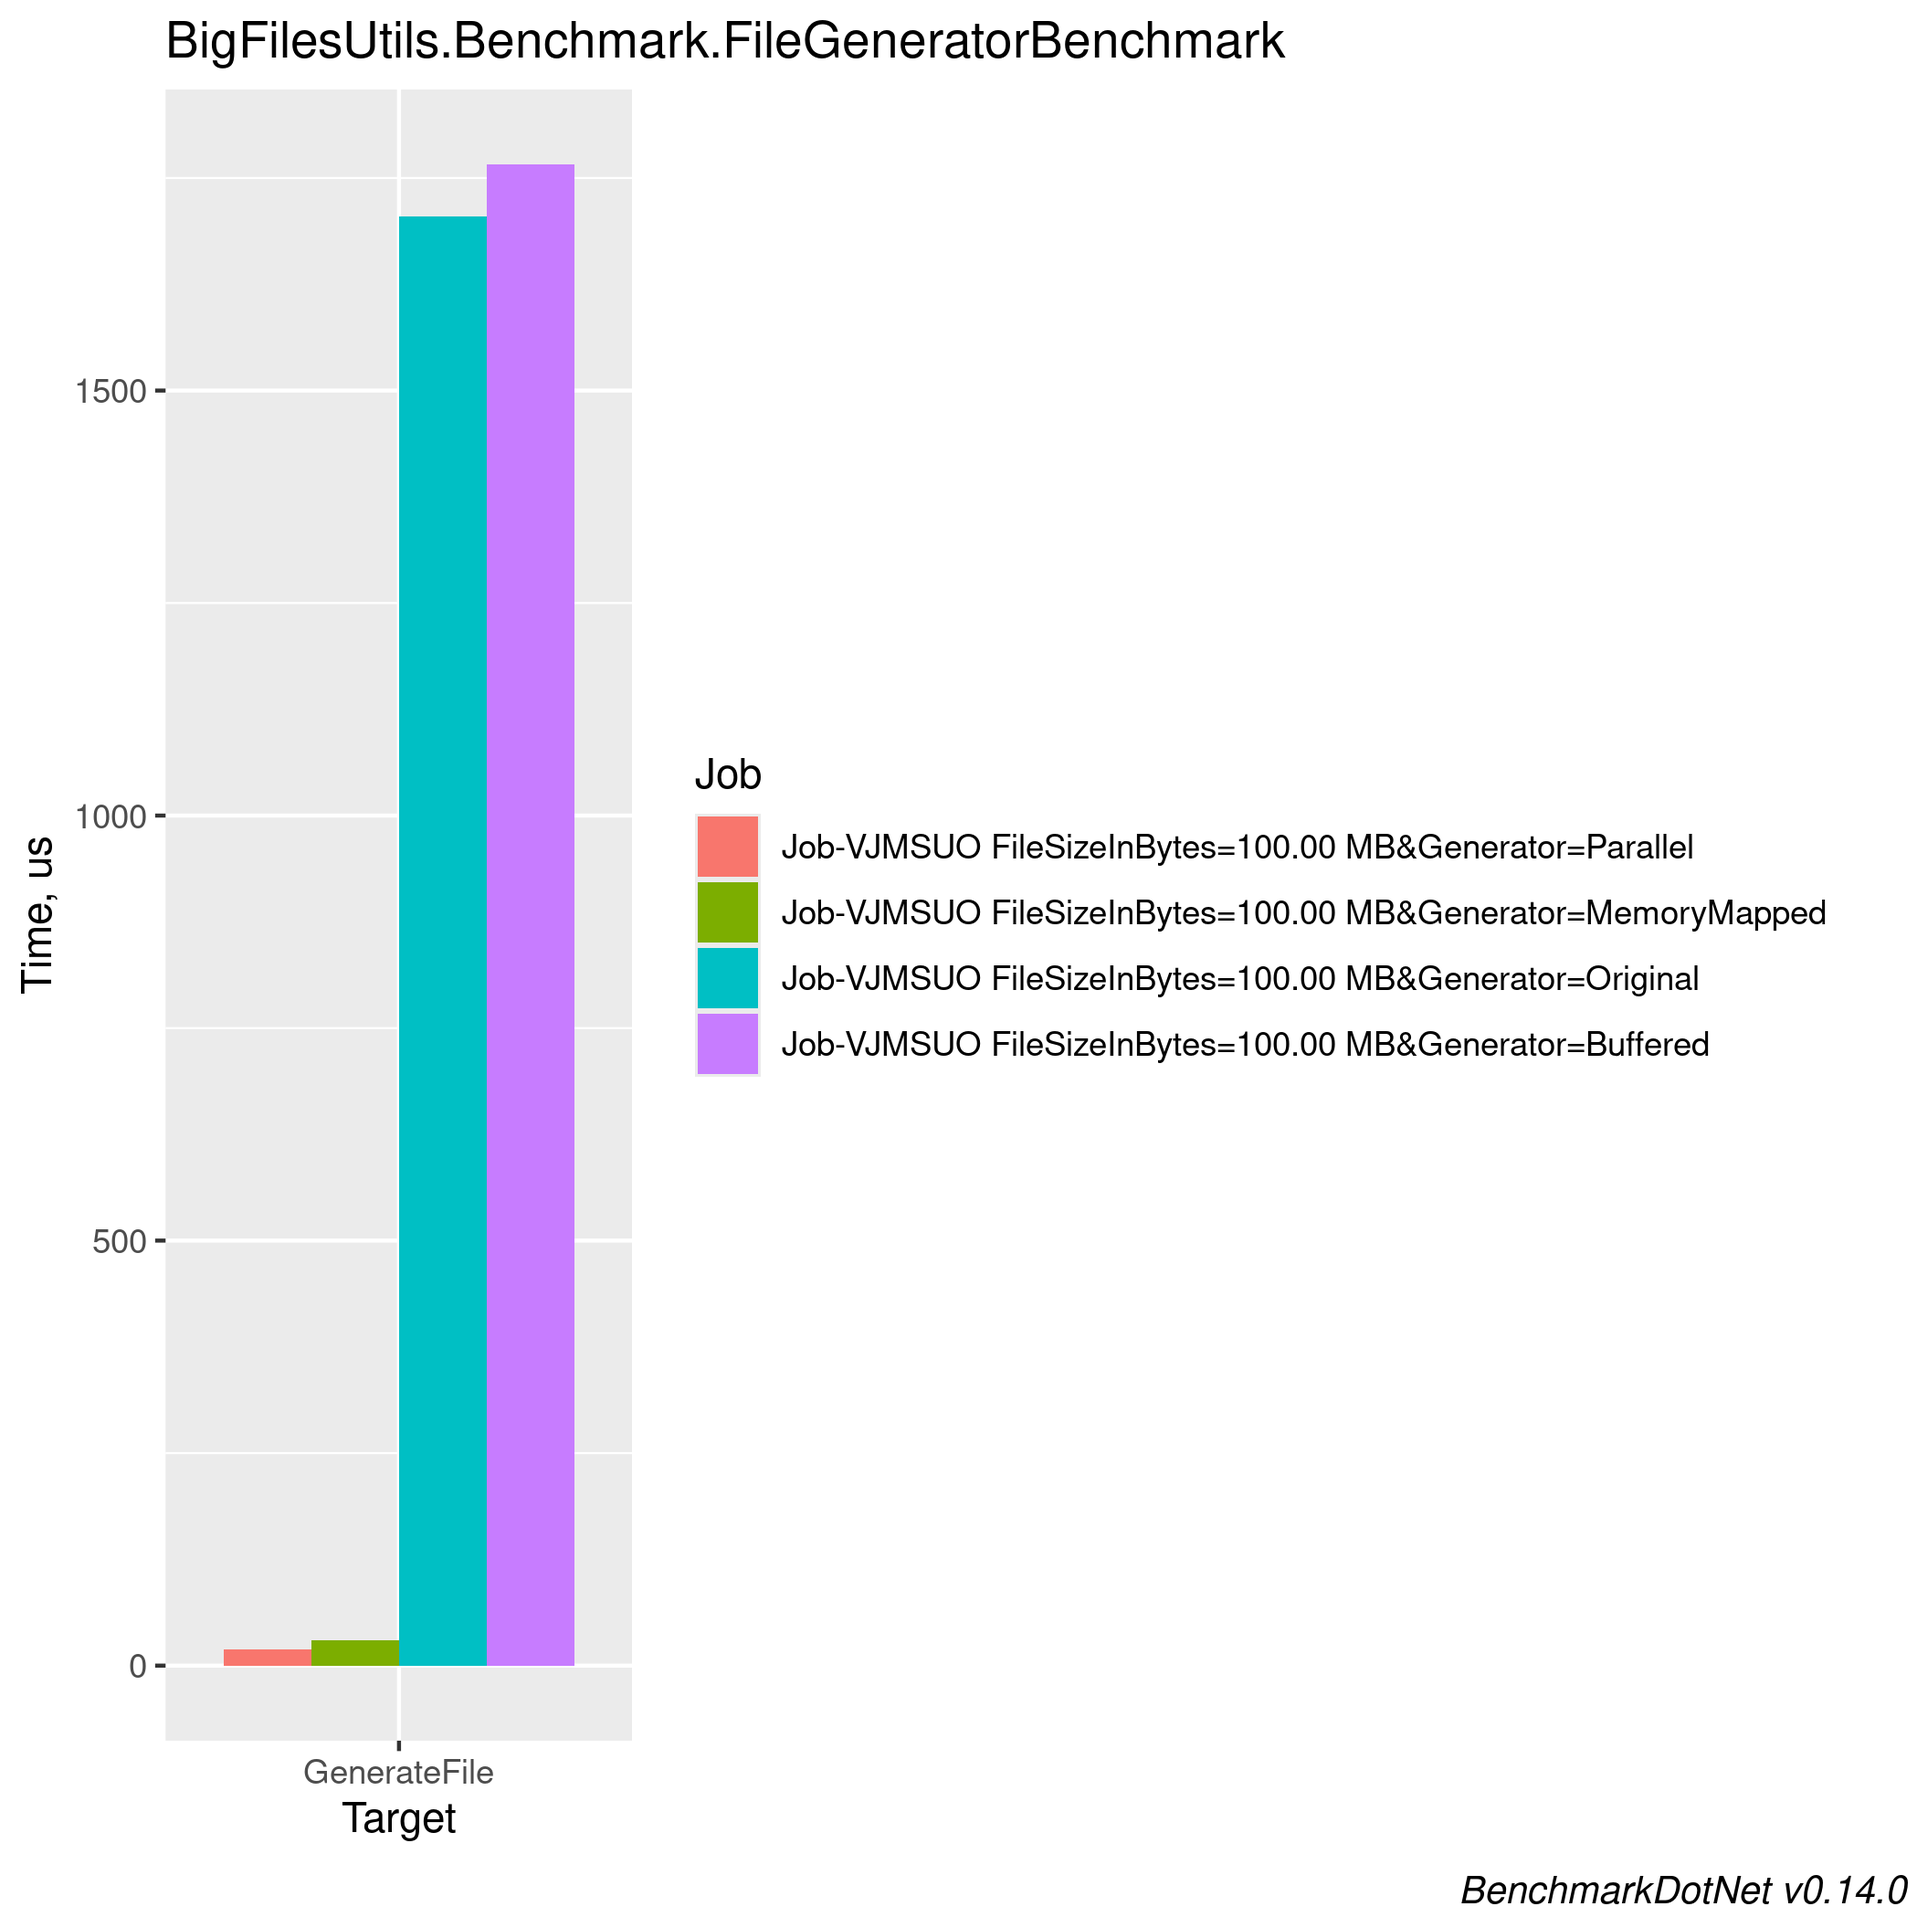
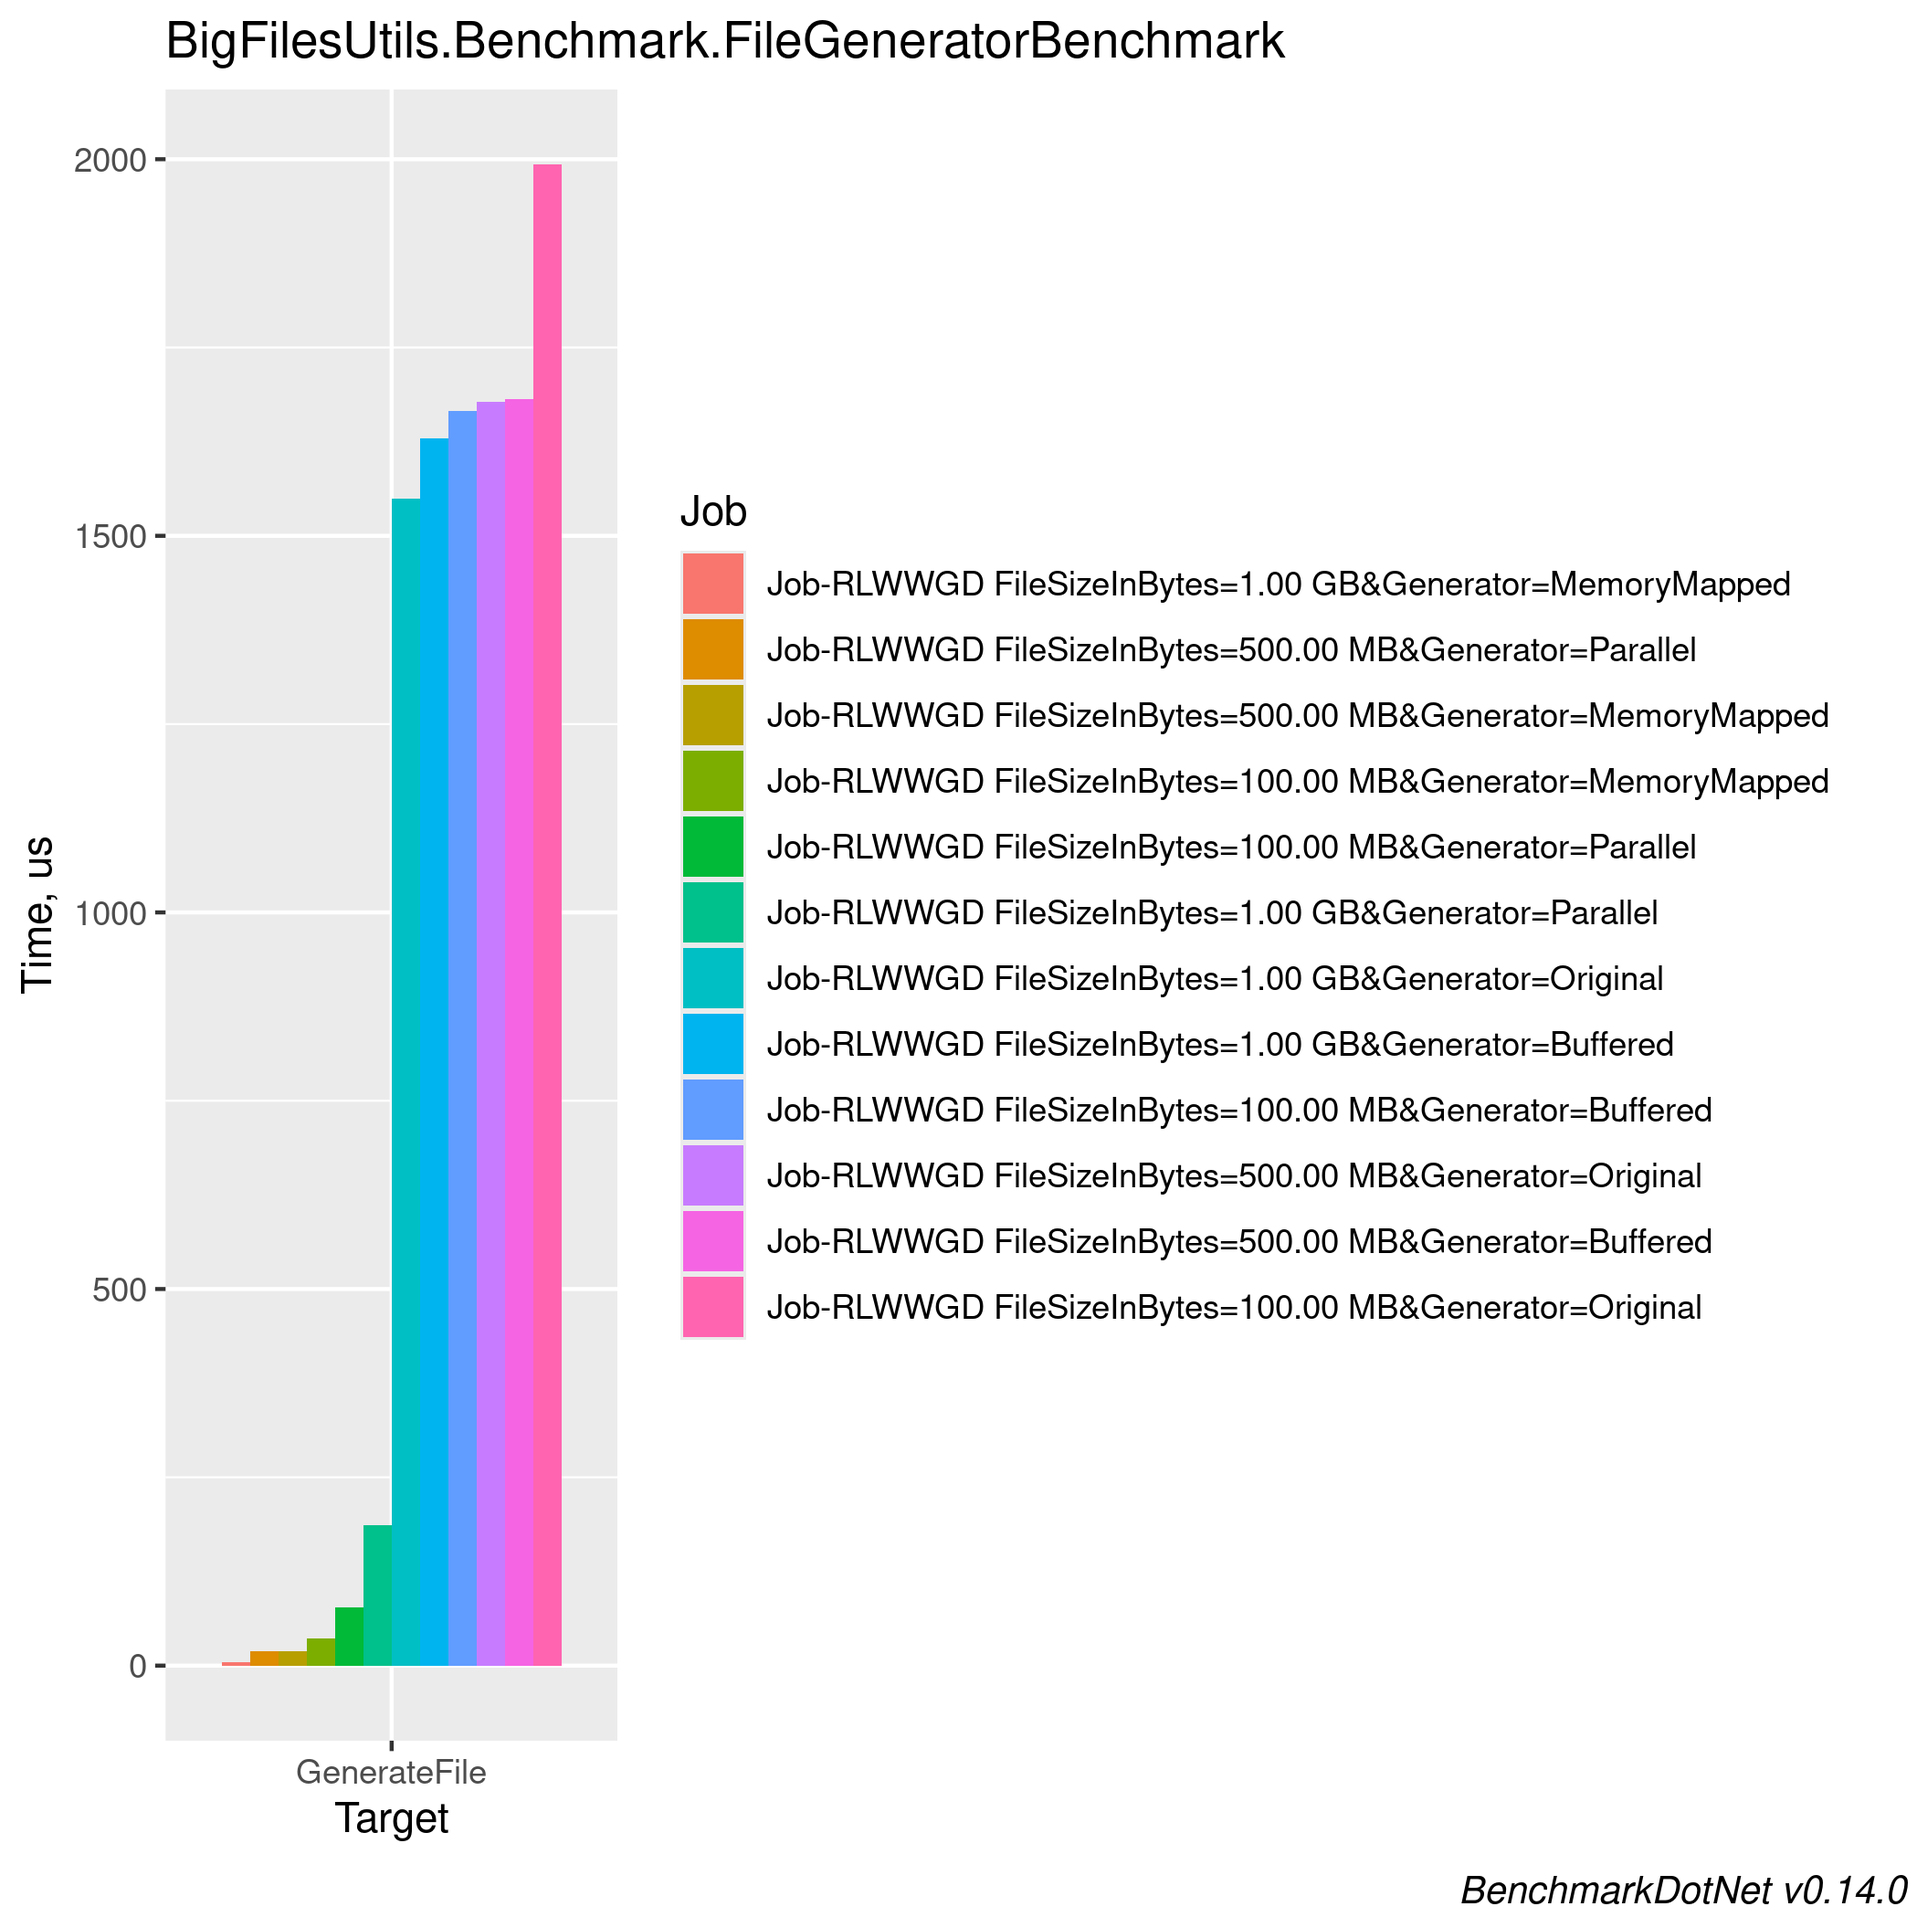
Update benchmark results in README

diff --git a/README.md b/README.md
@@ -7,7 +7,7 @@
 
 ## Benchmark Results
 
-*Last updated on Sun Sep 29 05:34:30 UTC 2024 UTC*
+*Last updated on Sun Sep 29 05:48:04 UTC 2024 UTC*
 
 ```
 
@@ -15,7 +15,7 @@ BenchmarkDotNet v0.14.0, Ubuntu 22.04.5 LTS (Jammy Jellyfish)
 AMD EPYC 7763, 1 CPU, 2 logical cores and 1 physical core
 .NET SDK 8.0.402
   [Host]     : .NET 8.0.8 (8.0.824.36612), X64 RyuJIT AVX2
-  Job-VJMSUO : .NET 8.0.8 (8.0.824.36612), X64 RyuJIT AVX2
+  Job-RLWWGD : .NET 8.0.8 (8.0.824.36612), X64 RyuJIT AVX2
 
 Server=True  InvocationCount=3  IterationCount=3  
 LaunchCount=5  UnrollFactor=1  WarmupCount=2  
@@ -23,10 +23,18 @@ LaunchCount=5  UnrollFactor=1  WarmupCount=2
 ```
 | Method       | FileSizeInBytes | Generator    | FileSize | Mean      | Error     | StdDev    | StdErr    | Median    | Min       | Max       | Rank | Allocated |
 |------------- |---------------- |------------- |--------- |----------:|----------:|----------:|----------:|----------:|----------:|----------:|-----:|----------:|
-| GenerateFile | 100.00 MB       | Parallel     | ?        | 0.0188 ms | 0.0065 ms | 0.0061 ms | 0.0016 ms | 0.0176 ms | 0.0095 ms | 0.0294 ms |    1 |   0.49 MB |
-| GenerateFile | 100.00 MB       | MemoryMapped | ?        | 0.0299 ms | 0.0876 ms | 0.0820 ms | 0.0212 ms | 0.0046 ms | 0.0022 ms | 0.3182 ms |    2 |   0.24 MB |
-| GenerateFile | 100.00 MB       | Original     | ?        | 1.7044 ms | 0.6072 ms | 0.5680 ms | 0.1467 ms | 1.7890 ms | 1.0986 ms | 2.5924 ms |    3 |   1.32 MB |
-| GenerateFile | 100.00 MB       | Buffered     | ?        | 1.7663 ms | 0.6426 ms | 0.6010 ms | 0.1552 ms | 1.7535 ms | 0.9025 ms | 3.0175 ms |    3 |   1.69 MB |
+| GenerateFile | 1.00 GB         | MemoryMapped | ?        | 0.0044 ms | 0.0043 ms | 0.0040 ms | 0.0010 ms | 0.0037 ms | 0.0019 ms | 0.0187 ms |    1 |   0.25 MB |
+| GenerateFile | 500.00 MB       | Parallel     | ?        | 0.0192 ms | 0.0087 ms | 0.0081 ms | 0.0021 ms | 0.0164 ms | 0.0104 ms | 0.0379 ms |    2 |   0.08 MB |
+| GenerateFile | 500.00 MB       | MemoryMapped | ?        | 0.0192 ms | 0.0365 ms | 0.0342 ms | 0.0088 ms | 0.0036 ms | 0.0019 ms | 0.0870 ms |    3 |   0.66 MB |
+| GenerateFile | 100.00 MB       | MemoryMapped | ?        | 0.0364 ms | 0.0954 ms | 0.0892 ms | 0.0230 ms | 0.0036 ms | 0.0019 ms | 0.3423 ms |    3 |   0.22 MB |
+| GenerateFile | 100.00 MB       | Parallel     | ?        | 0.0774 ms | 0.1878 ms | 0.1756 ms | 0.0453 ms | 0.0245 ms | 0.0149 ms | 0.6985 ms |    4 |   5.48 MB |
+| GenerateFile | 1.00 GB         | Parallel     | ?        | 0.1865 ms | 0.6822 ms | 0.6381 ms | 0.1648 ms | 0.0199 ms | 0.0120 ms | 2.4929 ms |    4 |   0.06 MB |
+| GenerateFile | 1.00 GB         | Original     | ?        | 1.5493 ms | 0.5820 ms | 0.5444 ms | 0.1406 ms | 1.1957 ms | 1.1058 ms | 2.5858 ms |    5 |   2.07 MB |
+| GenerateFile | 1.00 GB         | Buffered     | ?        | 1.6289 ms | 0.6854 ms | 0.6411 ms | 0.1655 ms | 1.3856 ms | 0.9534 ms | 2.8015 ms |    5 |   2.34 MB |
+| GenerateFile | 100.00 MB       | Buffered     | ?        | 1.6657 ms | 0.7995 ms | 0.7479 ms | 0.1931 ms | 1.6464 ms | 0.9577 ms | 3.4793 ms |    5 |   1.89 MB |
+| GenerateFile | 500.00 MB       | Original     | ?        | 1.6774 ms | 0.5399 ms | 0.5050 ms | 0.1304 ms | 1.8489 ms | 1.0723 ms | 2.6582 ms |    5 |   1.18 MB |
+| GenerateFile | 500.00 MB       | Buffered     | ?        | 1.6810 ms | 0.5598 ms | 0.5237 ms | 0.1352 ms | 1.7292 ms | 1.0285 ms | 2.9686 ms |    5 |   3.13 MB |
+| GenerateFile | 100.00 MB       | Original     | ?        | 1.9934 ms | 0.7855 ms | 0.7348 ms | 0.1897 ms | 1.9193 ms | 1.0894 ms | 3.3547 ms |    5 |   1.23 MB |
 
 ### Performance Barplot
 ![Benchmark Barplot](docs/BigFilesUtils.Benchmark.FileGeneratorBenchmark-barplot.png)

diff --git a/docs/BigFilesUtils.Benchmark.FileGeneratorBenchmark-report-github.md b/docs/BigFilesUtils.Benchmark.FileGeneratorBenchmark-report-github.md
@@ -4,7 +4,7 @@ BenchmarkDotNet v0.14.0, Ubuntu 22.04.5 LTS (Jammy Jellyfish)
 AMD EPYC 7763, 1 CPU, 2 logical cores and 1 physical core
 .NET SDK 8.0.402
   [Host]     : .NET 8.0.8 (8.0.824.36612), X64 RyuJIT AVX2
-  Job-VJMSUO : .NET 8.0.8 (8.0.824.36612), X64 RyuJIT AVX2
+  Job-RLWWGD : .NET 8.0.8 (8.0.824.36612), X64 RyuJIT AVX2
 
 Server=True  InvocationCount=3  IterationCount=3  
 LaunchCount=5  UnrollFactor=1  WarmupCount=2  
@@ -12,7 +12,15 @@ LaunchCount=5  UnrollFactor=1  WarmupCount=2
 ```
 | Method       | FileSizeInBytes | Generator    | FileSize | Mean      | Error     | StdDev    | StdErr    | Median    | Min       | Max       | Rank | Allocated |
 |------------- |---------------- |------------- |--------- |----------:|----------:|----------:|----------:|----------:|----------:|----------:|-----:|----------:|
-| GenerateFile | 100.00 MB       | Parallel     | ?        | 0.0188 ms | 0.0065 ms | 0.0061 ms | 0.0016 ms | 0.0176 ms | 0.0095 ms | 0.0294 ms |    1 |   0.49 MB |
-| GenerateFile | 100.00 MB       | MemoryMapped | ?        | 0.0299 ms | 0.0876 ms | 0.0820 ms | 0.0212 ms | 0.0046 ms | 0.0022 ms | 0.3182 ms |    2 |   0.24 MB |
-| GenerateFile | 100.00 MB       | Original     | ?        | 1.7044 ms | 0.6072 ms | 0.5680 ms | 0.1467 ms | 1.7890 ms | 1.0986 ms | 2.5924 ms |    3 |   1.32 MB |
-| GenerateFile | 100.00 MB       | Buffered     | ?        | 1.7663 ms | 0.6426 ms | 0.6010 ms | 0.1552 ms | 1.7535 ms | 0.9025 ms | 3.0175 ms |    3 |   1.69 MB |
+| GenerateFile | 1.00 GB         | MemoryMapped | ?        | 0.0044 ms | 0.0043 ms | 0.0040 ms | 0.0010 ms | 0.0037 ms | 0.0019 ms | 0.0187 ms |    1 |   0.25 MB |
+| GenerateFile | 500.00 MB       | Parallel     | ?        | 0.0192 ms | 0.0087 ms | 0.0081 ms | 0.0021 ms | 0.0164 ms | 0.0104 ms | 0.0379 ms |    2 |   0.08 MB |
+| GenerateFile | 500.00 MB       | MemoryMapped | ?        | 0.0192 ms | 0.0365 ms | 0.0342 ms | 0.0088 ms | 0.0036 ms | 0.0019 ms | 0.0870 ms |    3 |   0.66 MB |
+| GenerateFile | 100.00 MB       | MemoryMapped | ?        | 0.0364 ms | 0.0954 ms | 0.0892 ms | 0.0230 ms | 0.0036 ms | 0.0019 ms | 0.3423 ms |    3 |   0.22 MB |
+| GenerateFile | 100.00 MB       | Parallel     | ?        | 0.0774 ms | 0.1878 ms | 0.1756 ms | 0.0453 ms | 0.0245 ms | 0.0149 ms | 0.6985 ms |    4 |   5.48 MB |
+| GenerateFile | 1.00 GB         | Parallel     | ?        | 0.1865 ms | 0.6822 ms | 0.6381 ms | 0.1648 ms | 0.0199 ms | 0.0120 ms | 2.4929 ms |    4 |   0.06 MB |
+| GenerateFile | 1.00 GB         | Original     | ?        | 1.5493 ms | 0.5820 ms | 0.5444 ms | 0.1406 ms | 1.1957 ms | 1.1058 ms | 2.5858 ms |    5 |   2.07 MB |
+| GenerateFile | 1.00 GB         | Buffered     | ?        | 1.6289 ms | 0.6854 ms | 0.6411 ms | 0.1655 ms | 1.3856 ms | 0.9534 ms | 2.8015 ms |    5 |   2.34 MB |
+| GenerateFile | 100.00 MB       | Buffered     | ?        | 1.6657 ms | 0.7995 ms | 0.7479 ms | 0.1931 ms | 1.6464 ms | 0.9577 ms | 3.4793 ms |    5 |   1.89 MB |
+| GenerateFile | 500.00 MB       | Original     | ?        | 1.6774 ms | 0.5399 ms | 0.5050 ms | 0.1304 ms | 1.8489 ms | 1.0723 ms | 2.6582 ms |    5 |   1.18 MB |
+| GenerateFile | 500.00 MB       | Buffered     | ?        | 1.6810 ms | 0.5598 ms | 0.5237 ms | 0.1352 ms | 1.7292 ms | 1.0285 ms | 2.9686 ms |    5 |   3.13 MB |
+| GenerateFile | 100.00 MB       | Original     | ?        | 1.9934 ms | 0.7855 ms | 0.7348 ms | 0.1897 ms | 1.9193 ms | 1.0894 ms | 3.3547 ms |    5 |   1.23 MB |
